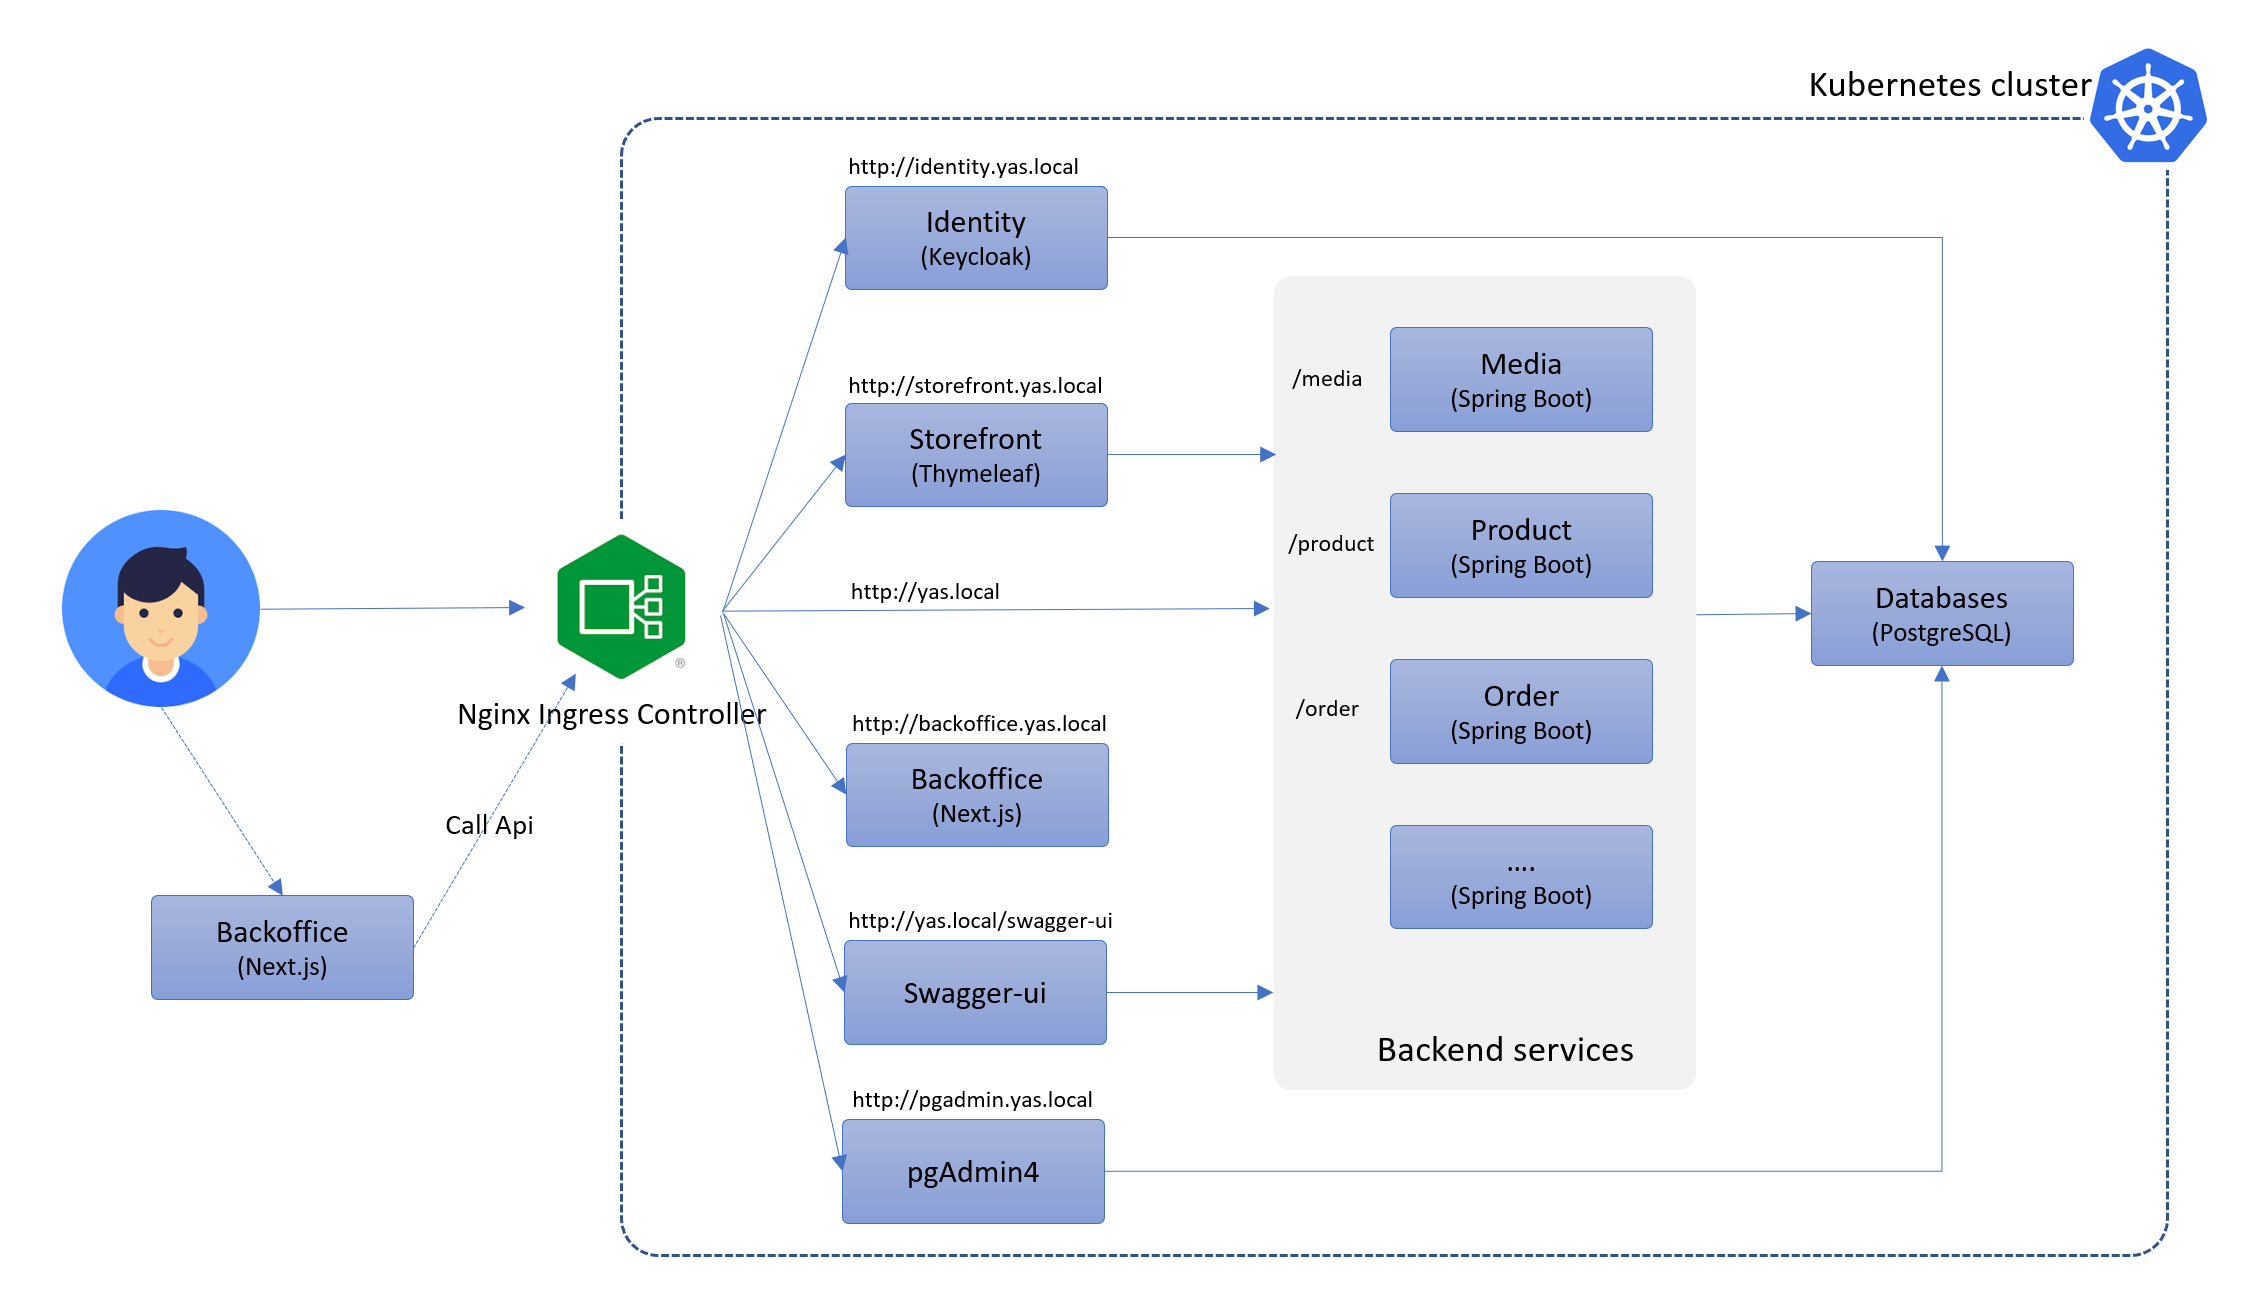
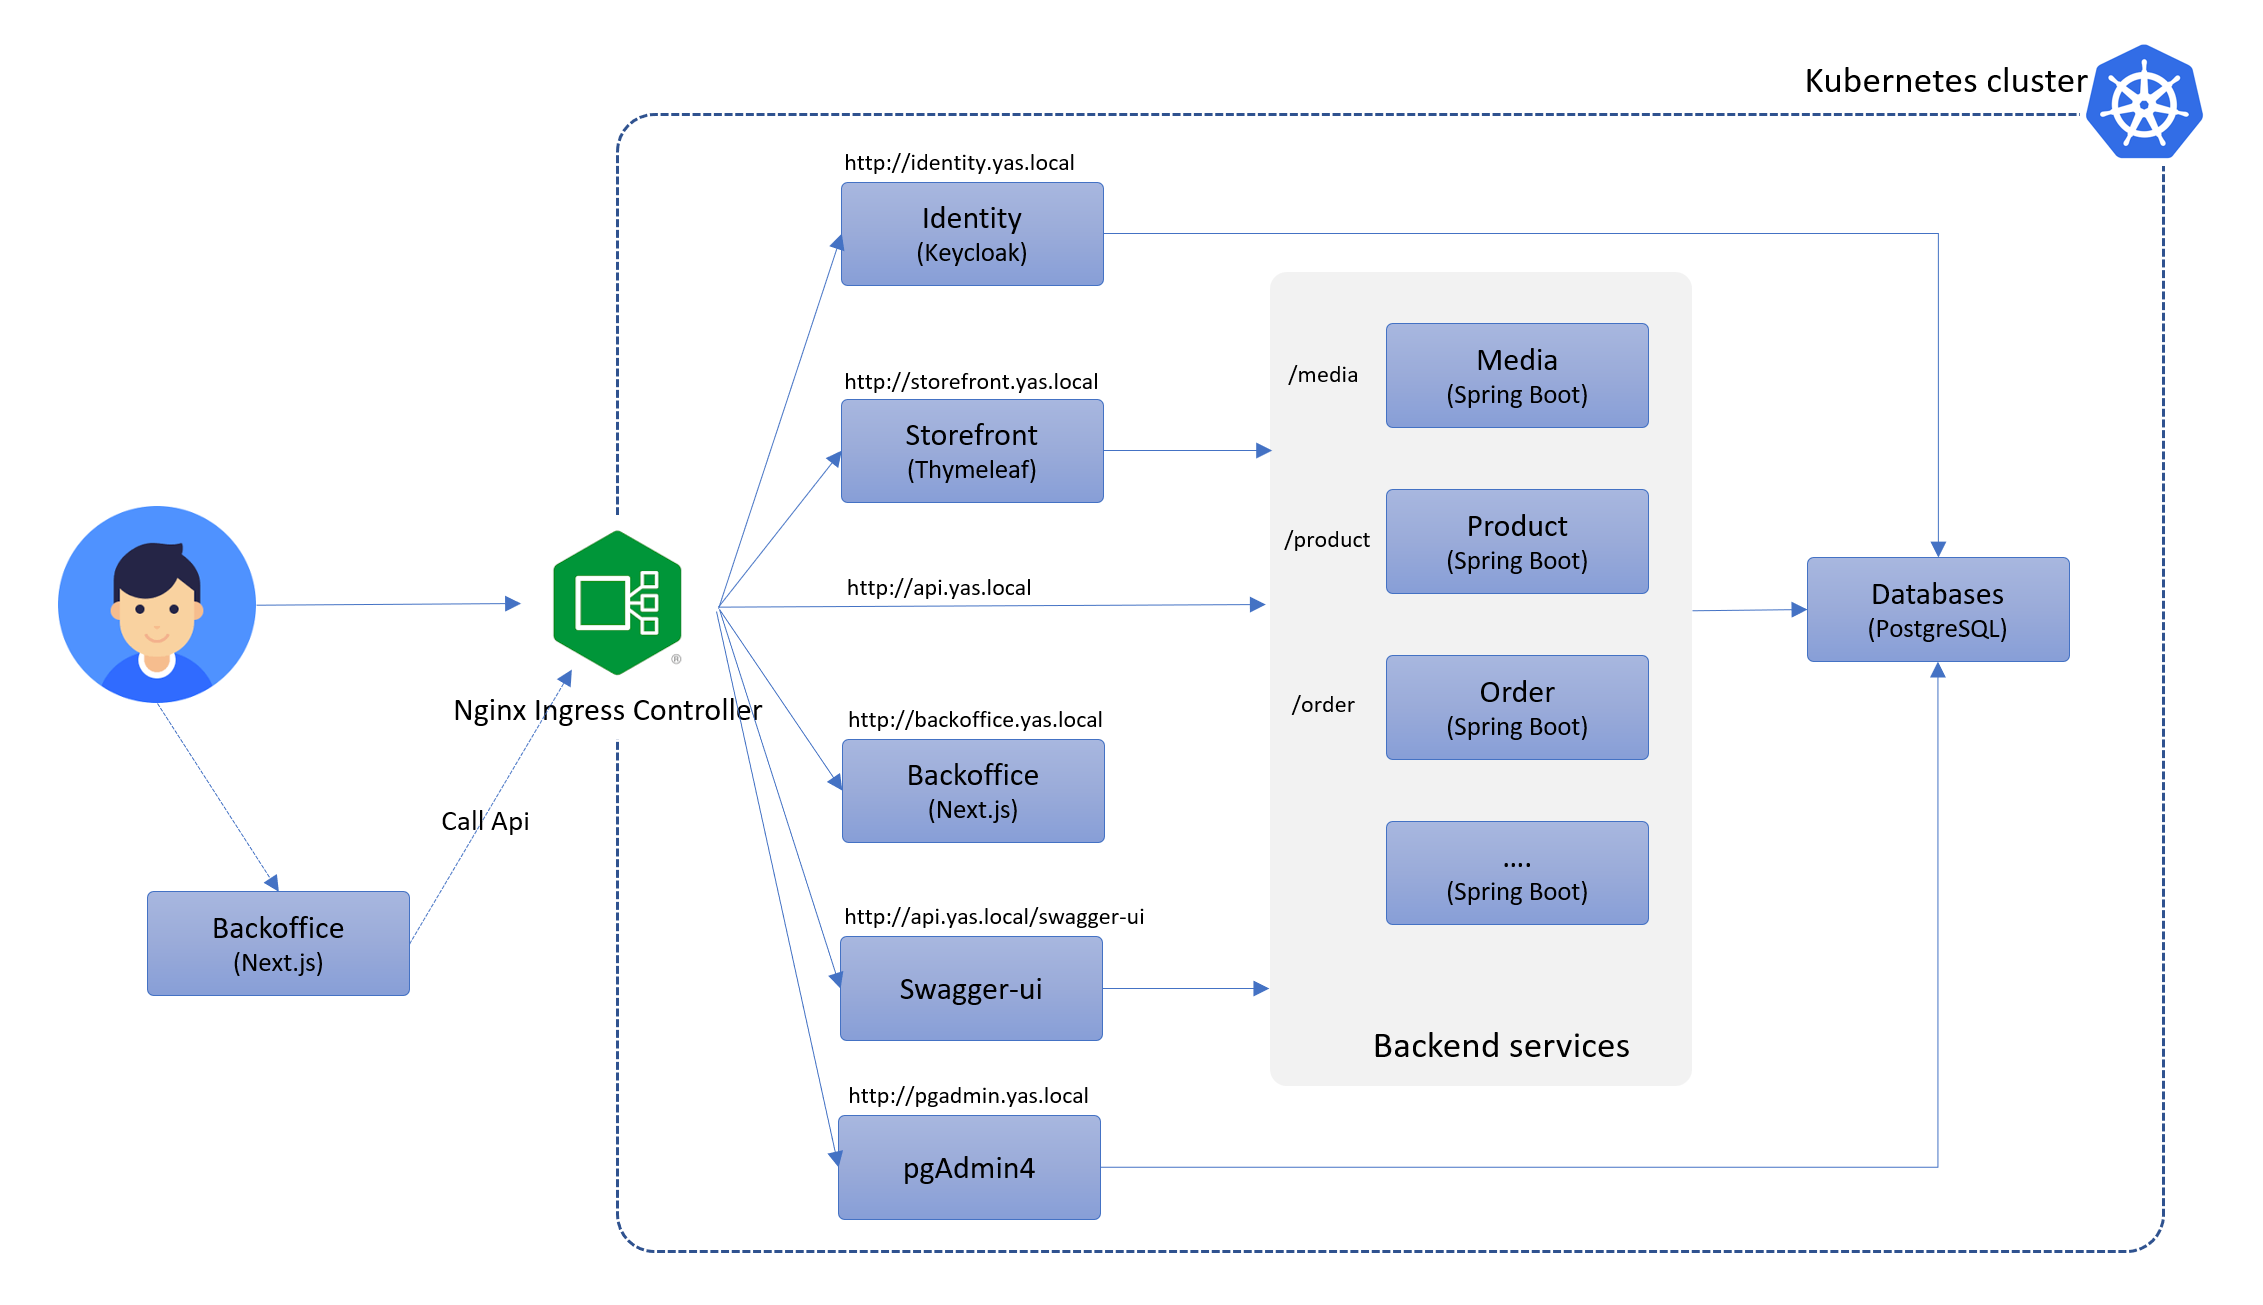
better url naming, clean up unused files

diff --git a/README.md b/README.md
@@ -25,8 +25,8 @@ YAS is a pet project aim to practice building a typical microservice application
 1. Install NGINX ingress controller `kubectl apply -f https://raw.githubusercontent.com/kubernetes/ingress-nginx/controller-v1.1.1/deploy/static/provider/cloud/deploy.yaml`
 1. In C: driver, create 2 folders `k8s-yas-data/postgres` and `k8s-yas-data/pgadmin`
 1. Run `kubectl apply -f yaslocal.yaml`
-1. Add `127.0.0.1 yas.local`,   `127.0.0.1 identity.yas.local` and `127.0.0.1 pgadmin.yas.local` to your host file
-1. Open your favorite browser and go to  http://pgadmin.yas.local. Account login: [email redacted] / admin. Register a server: localhost, port default, username admin, password admin. Then create a database name keycloak
+1. Add `127.0.0.1 api.yas.local`, `127.0.0.1 storefront.yas.local`, `127.0.0.1 backoffice.yas.local`, `127.0.0.1 identity.yas.local` and `127.0.0.1 pgadmin.yas.local` to your host file
+1. Open your favorite browser and go to  http://pgadmin.yas.local. Account login: [email redacted] / admin. Register a server: localhost, port default, username admin, password admin. Then create a database name `keycloak`, `media`, `product`
 1. Open another browser tab and go to http://identity.yas.local. Admin account is: admin/admin
 1. The Postgresql server is also published to the host machine: servername: localhost, port: 30007, username: admin, password: admin
 